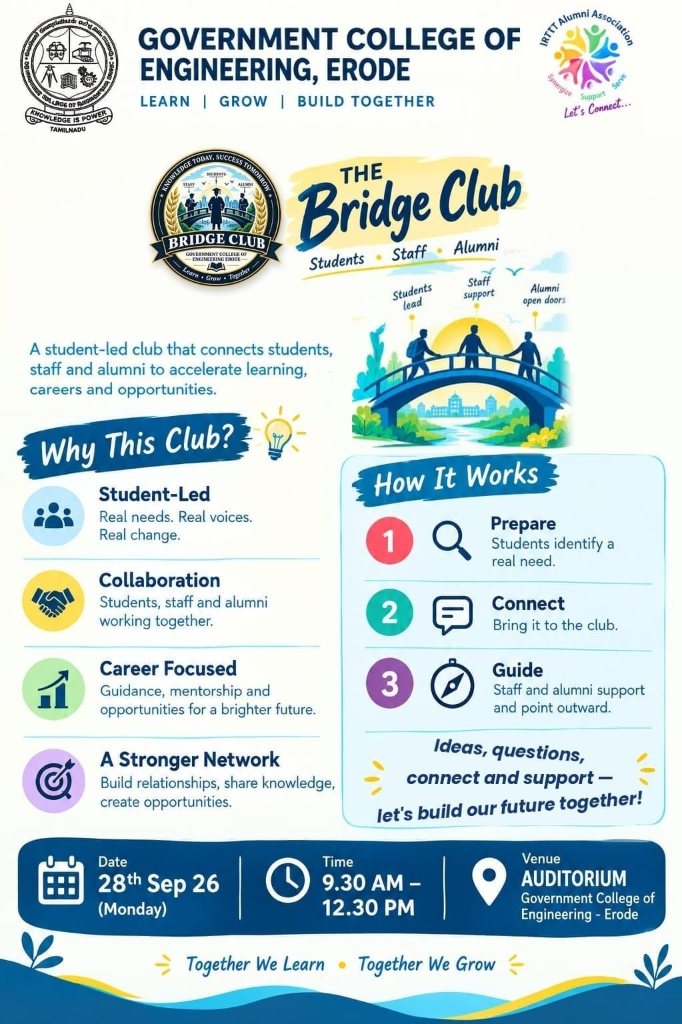
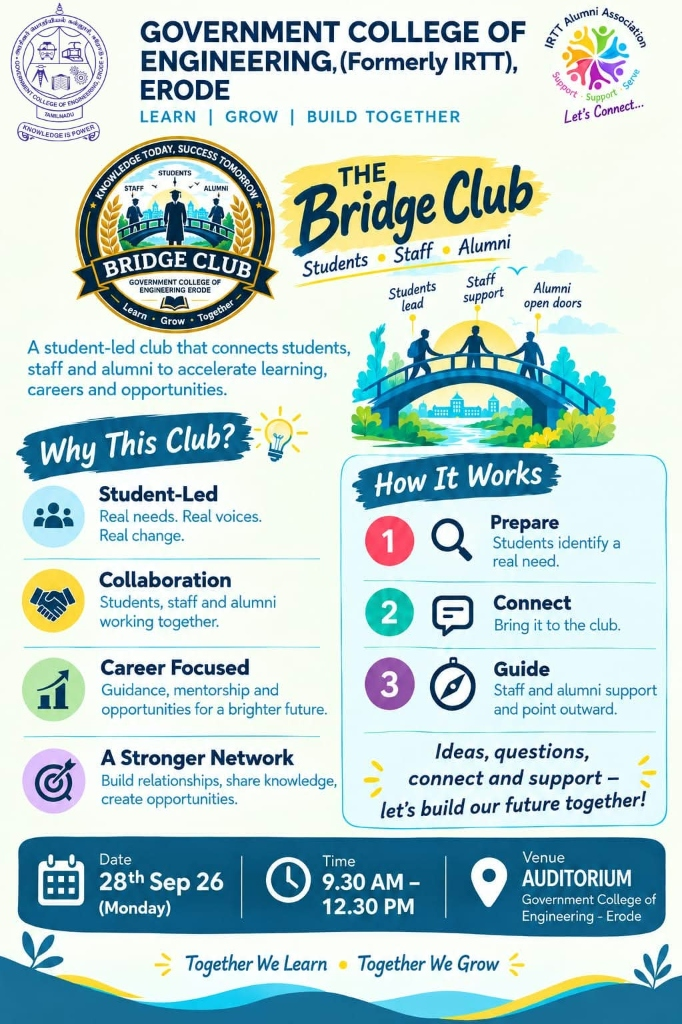
feat(assets): update official event poster image with (Formerly IRTT) branding

diff --git a/src/data/bridgeClubData.ts b/src/data/bridgeClubData.ts
@@ -1,5 +1,5 @@
 import officialClubLogo from '../assets/images/official_club_logo.jpg';
-import officialEventPoster from '../assets/images/official_event_poster.png';
+import officialEventPoster from '../assets/images/official_event_poster.jpg';
 
 export interface SurveyOption {
   id: string;
@@ -72,16 +72,16 @@ export interface RoleResponsibility {
 }
 
 export const OFFICIAL_POSTER_INFO = {
-  institution: 'Government College of Engineering, Erode',
+  institution: 'Government College of Engineering, (Formerly IRTT), Erode',
   tagline: 'LEARN | GROW | BUILD TOGETHER',
-  association: "IRTT Alumni Association — Synergize · Support · Serve · Let's Connect...",
+  association: "IRTT Alumni Association — Support · Support · Serve · Let's Connect...",
   clubName: 'THE Bridge Club',
   motto: 'Knowledge Today, Success Tomorrow',
   subMotto: 'Together We Learn · Together We Grow',
   mission: 'A student-led club that connects students, staff and alumni to accelerate learning, careers and opportunities.',
   logoImage: officialClubLogo,
   posterImage: officialEventPoster,
-  eventDate: '28th Sep (Monday)',
+  eventDate: '28th Sep 26 (Monday)',
   eventTime: '9.30 AM – 12.30 PM',
   eventVenue: 'AUDITORIUM Government College of Engineering - Erode',
   triRoles: {
